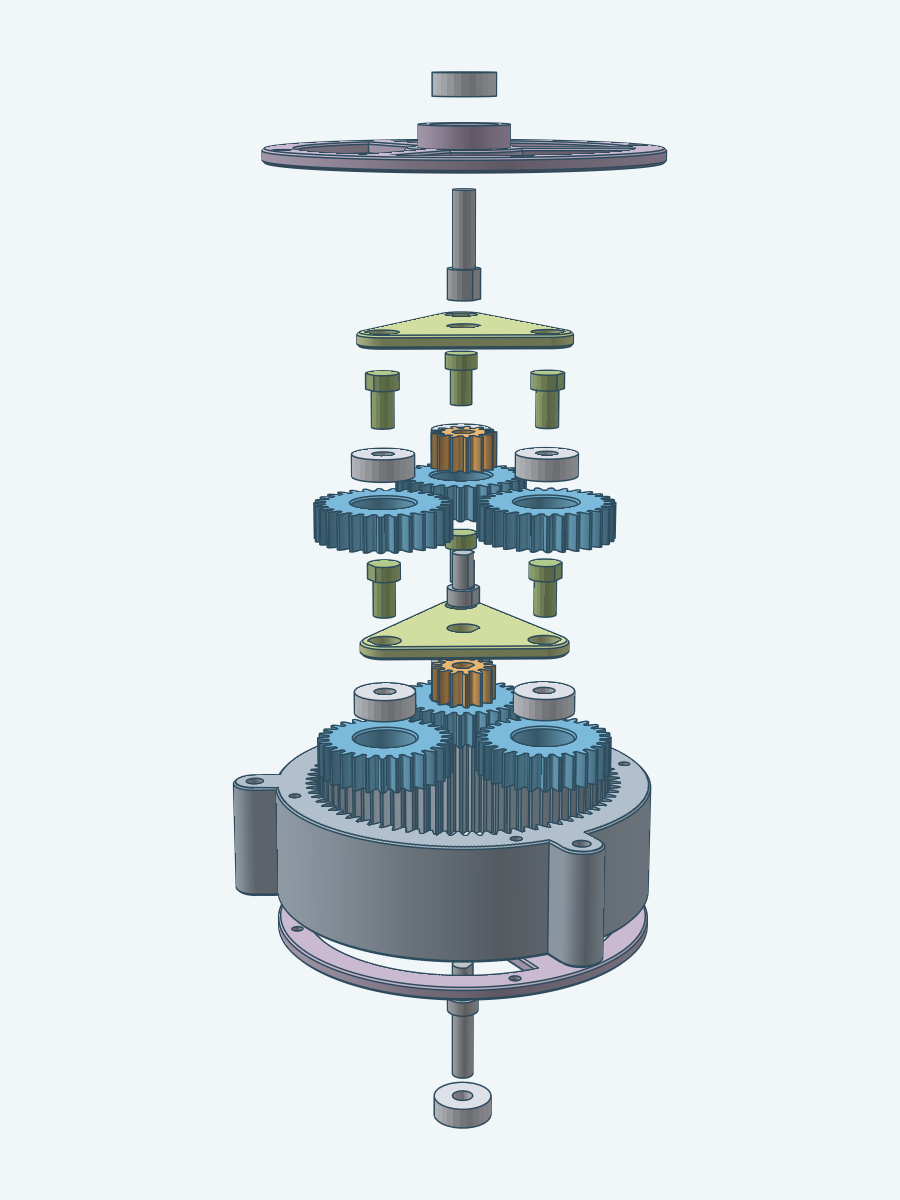
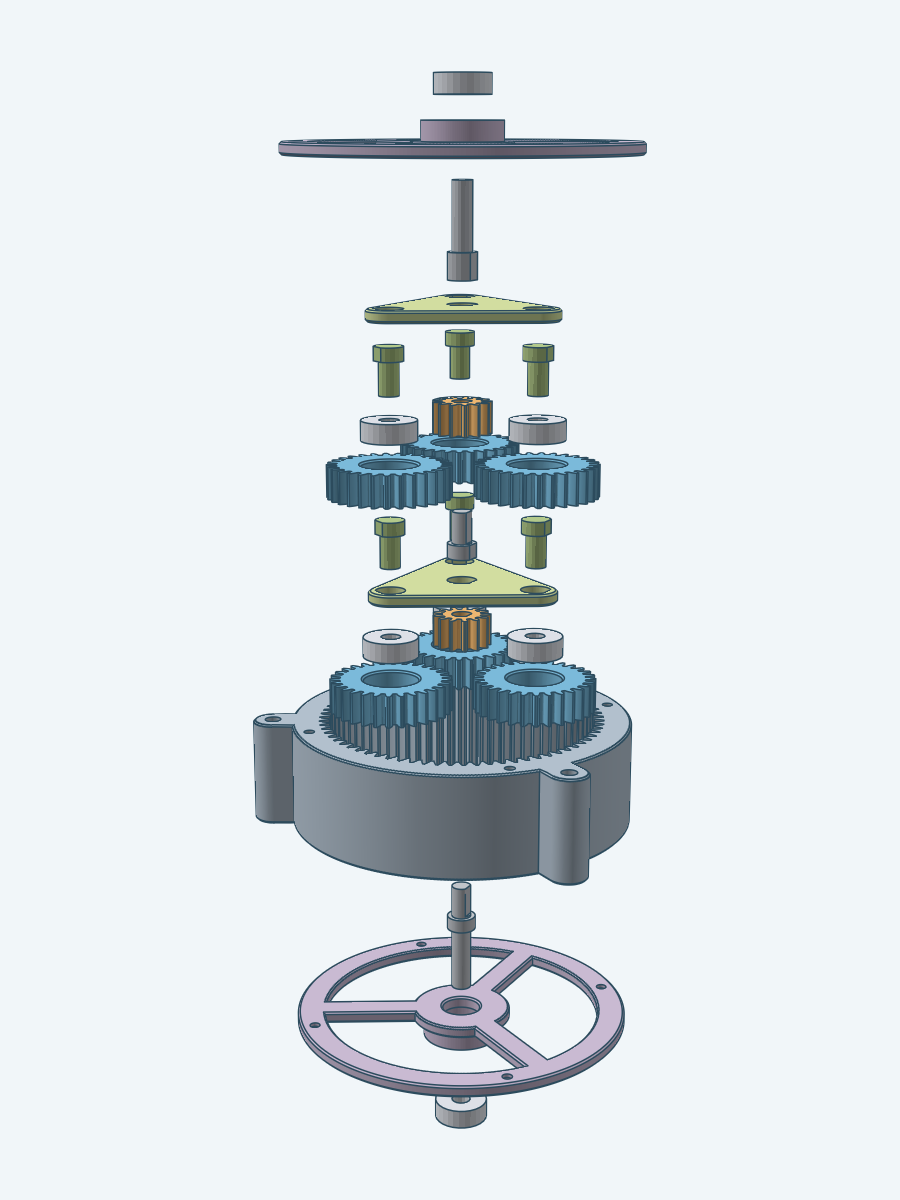
draw input shaft inside front cover when exploded

Changed region(s): [[0.2489, 0.0617, 0.7467, 0.9558]]

diff --git a/models/planetarygearbox/set_test.go b/models/planetarygearbox/set_test.go
@@ -112,9 +112,9 @@ func requireExplodedGearbox(t *testing.T, doc *decad.Document, box planetarygear
 	for _, nb := range named {
 		bodies[nb.Name] = nb.Body
 	}
-	offsets := map[string]r3.Vec{}
+	offsets, gaps := map[string]r3.Vec{}, map[string]float64{}
 	for _, part := range layout.Parts {
-		offsets[part.Name] = part.Offset
+		offsets[part.Name], gaps[part.Name] = part.Offset, part.Gap.Base()
 		require.GreaterOrEqual(t, part.Depth, 0, "%s is joined to the front cover", part.Name)
 		if part.Name == planetarygearbox.FrontCoverName {
 			continue
@@ -168,16 +168,29 @@ func requireExplodedGearbox(t *testing.T, doc *decad.Document, box planetarygear
 		requireSameOffset("carrier pins", n, func(i int) string { return planetarygearbox.PinName(k, i) })
 	}
 
-	// Each cover bearing sits beyond its shaft's free end and outside its cover: the input shaft's free end is at
-	// the front and the output shaft's at the rear. The rear cover sits beyond the ring.
+	// Each end reads, from the outside in, bearing, cover, shaft: each shaft sits on the inner side of its cover and
+	// each cover bearing outside it, each one of its own gaps from the cover, so the bearing is beyond the shaft's free
+	// end. The input shaft's free end is at the front and the output shaft's at the rear. The rear cover sits beyond the
+	// ring. Decad lays the parts out from its own boxes, so a gap is read to within 0.1 mm.
+	requireNextTo := func(cover, part string) {
+		t.Helper()
+		a, b := span(cover), span(part)
+		require.LessOrEqual(t, math.Max(a.lo-b.hi, b.lo-a.hi), gaps[part]+0.1, "%s sits next to %s", part, cover)
+	}
 	input, front, frontBearing := span(planetarygearbox.InputShaftName), span(planetarygearbox.FrontCoverName),
 		span(planetarygearbox.FrontBearingName)
-	require.True(t, input.above(frontBearing), "the front bearing is beyond the input shaft's free end")
+	require.True(t, input.above(front), "the input shaft is on the inner side of the front cover")
 	require.True(t, front.above(frontBearing), "the front bearing is outside the front cover")
+	require.True(t, input.above(frontBearing), "the front bearing is beyond the input shaft's free end")
+	requireNextTo(planetarygearbox.FrontCoverName, planetarygearbox.InputShaftName)
+	requireNextTo(planetarygearbox.FrontCoverName, planetarygearbox.FrontBearingName)
 	output, ring, rear, rearBearing := span(planetarygearbox.OutputShaftName), span(planetarygearbox.RingName),
 		span(planetarygearbox.RearCoverName), span(planetarygearbox.RearBearingName)
-	require.True(t, rearBearing.above(output), "the rear bearing is beyond the output shaft's free end")
+	require.True(t, rear.above(output), "the output shaft is on the inner side of the rear cover")
 	require.True(t, rearBearing.above(rear), "the rear bearing is outside the rear cover")
+	require.True(t, rearBearing.above(output), "the rear bearing is beyond the output shaft's free end")
+	requireNextTo(planetarygearbox.RearCoverName, planetarygearbox.OutputShaftName)
+	requireNextTo(planetarygearbox.RearCoverName, planetarygearbox.RearBearingName)
 	require.True(t, rear.above(ring), "the rear cover is outside the ring")
 
 	// No collar passes a bore narrower than itself. A shaft's collar or thick part, and a carrier pin's thick part,

diff --git a/models/planetarygearbox/set.go b/models/planetarygearbox/set.go
@@ -20,6 +20,11 @@ const (
 // explodeGap is how far past touching each part of the exploded view sits from the part it clears.
 const explodeGap = 6.0
 
+// wideGap is the gap of the ring and the front bearing in the exploded view. The README image looks at the gearbox
+// from above, and from there the ring or a cover's rim hides the top of a part that sits explodeGap below it. With
+// wideGap the input shaft's collar and flat end show below the ring, and the front bearing below the front cover.
+const wideGap = 20.0
+
 // Set returns the gearbox as a parts.Set over doc, which must be the document Build used with p: every part with its
 // material (the printed parts are PLA, the bearings and fasteners are bought) and the joints between them. A in a
 // joint is the part that goes in and B the part it goes into. The set feeds Gearbox.Explode.
@@ -172,10 +177,29 @@ func (g Gearbox) joints(p Params, frame r3.Transform) []parts.Joint {
 // gearbox's Set over the document Build used. The front cover stays put. Decad reads from the tessellated bodies which
 // parts stand in the way of which along each direction, takes the parts off in rounds, each round holding the parts
 // nothing still present blocks, and lays the rounds out with the round removed last nearest the front cover. Every
-// part leaves along the gearbox's axis, toward the front or the rear, and ends explodeGap beyond the parts it clears.
+// part leaves along the gearbox's axis, toward the front or the rear, and ends explodeGap beyond the parts it clears,
+// or wideGap for the ring and the front bearing.
 // The layout is a picture, not a proven assembly sequence: Decad counts a pair it cannot settle from the meshes as
 // free.
+//
+// The input shaft's collar is narrower than the front cover's lip bore, so the shaft could leave toward the front as
+// soon as the front bearing is off. Explode makes it leave toward the rear instead, and only after the ring, so the
+// layout draws it on the inner side of the front cover, next to it, as the output shaft sits on the inner side of the
+// rear cover: front bearing, front cover, input shaft, from the outside in.
 func (g Gearbox) Explode(ctx context.Context, set *parts.Set) (*parts.Exploded, error) {
+	var rear r3.Vec
+	for _, j := range set.Joints() {
+		if j.A == InputShaftName && j.B == FrontBearingName && j.Axis != nil {
+			rear = j.Axis.Dir
+		}
+	}
+	if rear == (r3.Vec{}) {
+		return nil, fmt.Errorf("planetarygearbox: the set has no axis joining %s and %s", InputShaftName,
+			FrontBearingName)
+	}
 	return set.Explode(ctx, parts.WithDerivedExplode(), parts.WithExplodeGround(FrontCoverName),
-		parts.WithExplodeGap(units.Millimeters(explodeGap)))
+		parts.WithExplodeGap(units.Millimeters(explodeGap)),
+		parts.WithRemoval(InputShaftName, parts.Removal{Direction: rear, After: []string{RingName}}),
+		parts.WithPartGap(RingName, units.Millimeters(wideGap)),
+		parts.WithPartGap(FrontBearingName, units.Millimeters(wideGap)))
 }

diff --git a/models/planetarygearbox/README.md b/models/planetarygearbox/README.md
@@ -22,25 +22,31 @@ The complete two-stage gearbox with nothing cut away, from the output end, from 
 
 ## Exploded
 
-<img src="images/exploded.png" alt="The two-stage gearbox pulled apart along its axis: the front bearing and the input shaft below the front cover, then the ring, two stages of planets, suns with the planet bearings, carriers and carrier pins with a link shaft between them, then the output shaft, the rear cover and the rear bearing" width="450">
+<img src="images/exploded.png" alt="The two-stage gearbox pulled apart along its axis: the front bearing below the front cover, the input shaft above it, then the ring, two stages of planets, suns with the planet bearings, carriers and carrier pins with a link shaft between them, then the output shaft, the rear cover and the rear bearing" width="450">
 
 Decad's `parts` package lays the view out from the model's parts (`Gearbox.Set`) in its derived mode
 (`Gearbox.Explode`). It reads from the tessellated bodies which parts block which along the gearbox's axis, takes the
-parts off in rounds, and moves each part toward the front or the rear. The model states no order or direction. The
-front cover stays put. The picture lists the parts outward from the front cover in the reverse of the order in which
-they come off: the part taken off last sits nearest the front cover, and the part taken off first sits farthest out.
-The bolts and nuts are left out of the picture; the "How the housing is bolted" section below shows them.
+parts off in rounds, and moves each part toward the front or the rear. The front cover stays put. The picture lists
+the parts outward from the front cover in the reverse of the order in which they come off: the part taken off last
+sits nearest the front cover, and the part taken off first sits farthest out. The bolts and nuts are left out of the
+picture; the "How the housing is bolted" section below shows them.
 
 A shaft's collar is 7.4 mm across. It is wider than the 5 mm bore of a bearing and the 5.1 mm bore of a sun, so it
 cannot pass through either, but it fits through a cover's 10 mm lip bore. Each cover bearing therefore comes off the
-free end of its shaft first, and the shaft then leaves through its cover. In the picture each of these bearings sits
-beyond its shaft's free end.
+free end of its shaft first. In the picture each of these bearings sits outside its cover, beyond its shaft's free
+end, and each shaft sits on the inner side of its cover: both ends read bearing, cover, shaft from the outside in.
+
+The model states one choice for the input shaft. Its collar would let it leave toward the front through the cover's
+lip bore once the front bearing is off, which would draw it below the cover. `Gearbox.Explode` makes it leave toward
+the rear after the ring instead, so it sits next to the front cover on the inner side, as the output shaft does at the
+rear cover. The ring and the front bearing sit 20 mm, not 6 mm, from the parts below them, so the camera above still
+sees the input shaft's collar and flat end below the ring, and the front bearing below the front cover's rim.
 
 From the bottom:
 
 1. The front bearing, off the input shaft's outer end.
-2. The input shaft, out through the front cover.
-3. The front cover.
+2. The front cover.
+3. The input shaft, out of the front cover's inner side.
 4. The ring.
 5. The first stage: the planets; the sun, beside the planets' bearings, which come up out of the planets; the
    carrier; and above it the carrier pins, which leave through the top of the carrier's sockets, beside the link shaft.

diff --git a/docs/models/planetarygearbox.md b/docs/models/planetarygearbox.md
@@ -17,7 +17,10 @@ display name. `DefaultParams()` returns the 13/29/71 gearbox with three planets 
 `Gearbox.Set(doc, params)` returns the build as a `parts.Set` with its materials and joints; it needs the document and
 parameters `Build` used. `Gearbox.Explode(ctx, set)` pulls that set apart along its axis with `Set.Explode` in Decad's
 derived mode (`parts.WithDerivedExplode`), keeping the front cover in place. Decad reads from the tessellated bodies
-which parts block which, so the model states no removal order or direction. In the set the input and output shafts turn in their cover bearings and each planet turns on its carrier
+which parts block which and derives the removal order and directions, with one exception: a `parts.WithRemoval` hint
+makes the input shaft leave toward the rear, after the ring, so the layout draws it on the inner side of the front
+cover. `parts.WithPartGap` gives the ring and the front bearing a 20 mm gap in place of 6 mm. In the set the input and
+output shafts turn in their cover bearings and each planet turns on its carrier
 pin; every other joint is fixed. Each pin-in-bore joint declares its fit's radial clearance: zero for a shaft or pin
 in a bearing bore and for a bolt in its nut, `BearingClearance` for a bearing in its seat, 0.05 mm for a part pressed
 into a sun or carrier and 0.3 mm for a bolt in its hole. For one stage, `Set.Linkage` with the ring as ground gives

diff --git a/docs/rendering.md b/docs/rendering.md
@@ -133,8 +133,10 @@ render one of them alone. The shafts are seen from almost level with them so the
 carrier from below so its through sockets show. A 900 × 1200 pixel exploded view, `exploded.png`, pulls the
 whole two-stage gearbox apart along its axis with nothing cut and without its bolts and nuts. The offsets come from
 `parts.Set.Explode` over `Gearbox.Set` in Decad's derived mode, which `Gearbox.Explode` runs with the front cover held
-in place: each cover bearing sits beyond its shaft's free end, and each shaft leaves through its cover's lip bore. The
-`planetarygearbox/exploded` preset renders it alone.
+in place. Both ends read bearing, cover, shaft from the outside in: each cover bearing sits outside its cover, beyond
+its shaft's free end, and each shaft sits on the inner side of its cover. The ring and the front bearing sit 20 mm
+from the parts below them, so the camera above sees the input shaft's collar and the front bearing past the ring and
+the front cover's rim. The `planetarygearbox/exploded` preset renders it alone.
 
 The `motion` shot writes `images/motion.gif`, 960 × 320 pixels and 78 frames, of the two-stage gearbox in three
 panels: the hero's cutaway, the input end from below and the output end from above, with a caption strip that reads
